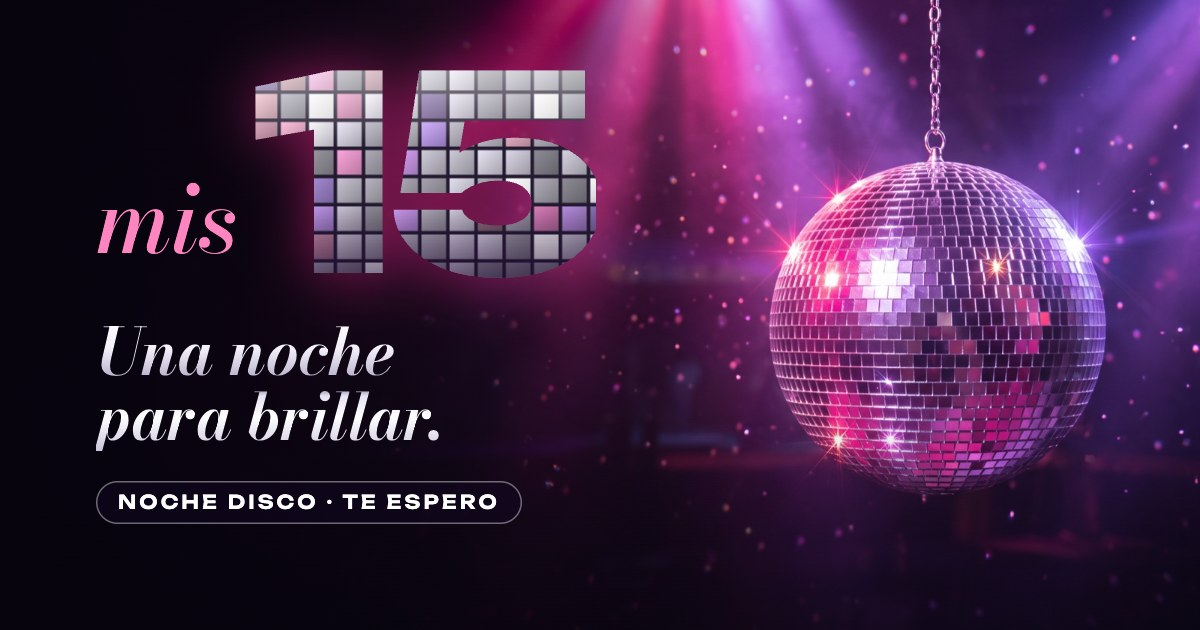
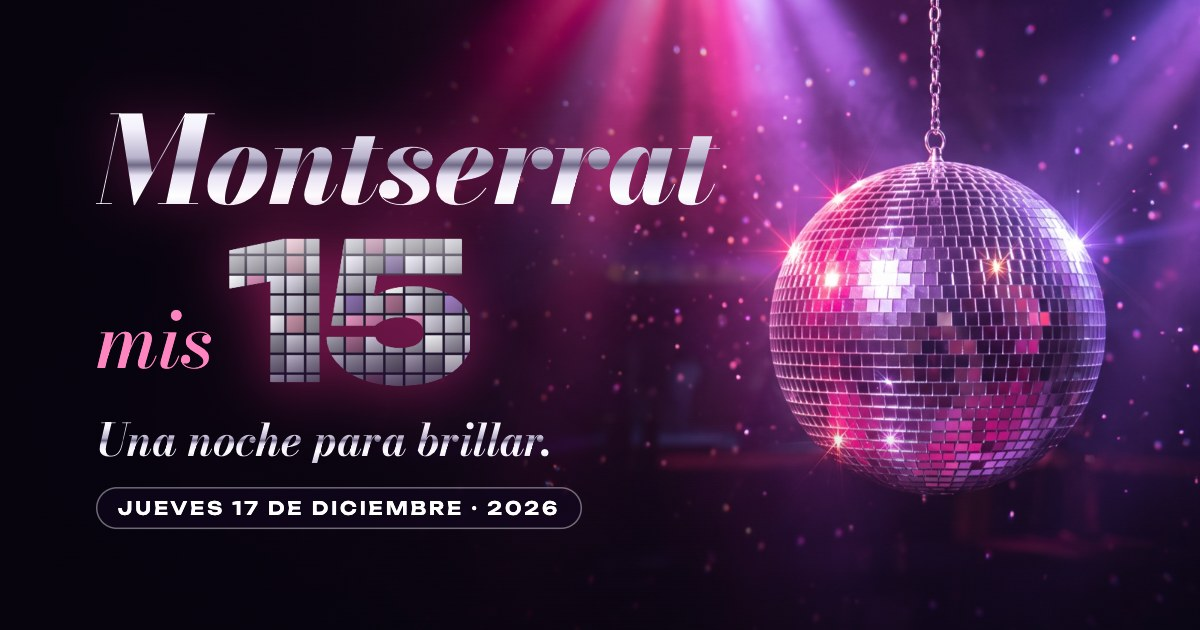
changes

Changed region(s): [[0.0617, 0.0603, 0.6167, 0.7238], [0.0617, 0.754, 0.4625, 0.8444]]

diff --git a/scripts/og.html b/scripts/og.html
@@ -6,7 +6,7 @@
     http://localhost:5173/scripts/og.html?icono=180 → ícono cuadrado
     http://localhost:5173/scripts/og.html?foto       → versión con fondo fotográfico
                                                        (scripts/og-fondo.jpg, generado con Magnific)
-  Es genérica (sin nombre), así sigue siendo válida al cargar los datos reales.
+  La versión ?foto toma el nombre y la fecha de config/evento.js: si cambian, volver a capturarla.
 -->
 <html lang="es">
 <head>
@@ -47,8 +47,15 @@
   .og--foto::before { content: ""; position: absolute; inset: 0;
     background: linear-gradient(90deg, rgba(7,4,13,.82) 0%, rgba(7,4,13,.55) 38%, rgba(7,4,13,0) 62%),
                 linear-gradient(0deg, rgba(7,4,13,.45), transparent 35%); }
-  .og--foto .type { top: 64px; }
-  .og--foto .fifteen { font-size: 270px; }
+  .og--foto .type { top: 50%; transform: translateY(-50%); width: 660px; }
+  .og--foto .name { display: inline-block; font: italic 800 132px/1 "Bodoni Moda", serif; letter-spacing: -0.01em; white-space: nowrap; padding: 0 .06em 8px 0;
+    background: var(--chrome); -webkit-background-clip: text; background-clip: text; color: transparent;
+    filter: drop-shadow(0 0 26px rgba(255, 45, 149, .45)); }
+  .og--foto .xv { margin-top: 6px; }
+  .og--foto .mis { font-size: 76px; transform: translateY(-14px); }
+  .og--foto .fifteen { font-size: 190px; }
+  .og--foto .phrase { margin-top: 26px; font-size: 44px; }
+  .og--foto .tag { margin-top: 24px; font-size: 18px; }
   /* ícono */
   .icon { width: var(--s); height: var(--s); display: grid; place-items: center; background: radial-gradient(circle at 50% 40%, #3a1062, #0e061a 70%); }
   .icon canvas { width: 92%; height: 92%; }
@@ -66,12 +73,17 @@
     root.innerHTML = `<div class="icon" style="--s:${+size}px"><canvas></canvas></div>`;
     new DiscoBall(root.querySelector("canvas"), { rows: +size < 64 ? 12 : 22, speed: 0, tilt: -0.15, seed: 5, startAngle: 1.1, startTime: 5 });
   } else if (new URLSearchParams(location.search).has("foto")) {
+    // nombre y fecha salen de config/evento.js
+    const [{ default: base }, { buildModel }] = await Promise.all([import("../config/evento.js"), import("../src/lib/data.js")]);
+    const model = buildModel(base);
+    const esc = (t) => String(t).replace(/[&<>"]/g, (c) => ({ "&": "&amp;", "<": "&lt;", ">": "&gt;", '"': "&quot;" })[c]);
     root.innerHTML = `
       <div class="og og--foto">
         <div class="type">
+          ${model.name ? `<div class="name">${esc(model.name)}</div>` : ""}
           <div class="xv"><span class="mis">mis</span><span class="fifteen">15</span></div>
-          <div class="phrase">Una noche<br>para brillar.</div>
-          <div class="tag">Noche disco · Te espero</div>
+          <div class="phrase">Una noche para brillar.</div>
+          <div class="tag">${model.datePill ? esc(model.datePill) : "Noche disco · Te espero"}</div>
         </div>
       </div>`;
   } else {
@@ -94,7 +106,15 @@
       </div>`;
     new DiscoBall(root.querySelector(".ball canvas"), { rows: 30, speed: 0, tilt: -0.2, seed: 7, startAngle: 0.9, startTime: 6 });
   }
-  document.fonts.ready.then(() => document.body.dataset.ready = "1");
+  document.fonts.ready.then(() => {
+    // nombres largos: se achica la letra hasta que entre sin tocar la bola
+    const name = document.querySelector(".og--foto .name");
+    if (name) {
+      let size = 132;
+      while (name.getBoundingClientRect().width > 640 && size > 70) { size -= 4; name.style.fontSize = `${size}px`; }
+    }
+    document.body.dataset.ready = "1";
+  });
 </script>
 </body>
 </html>
